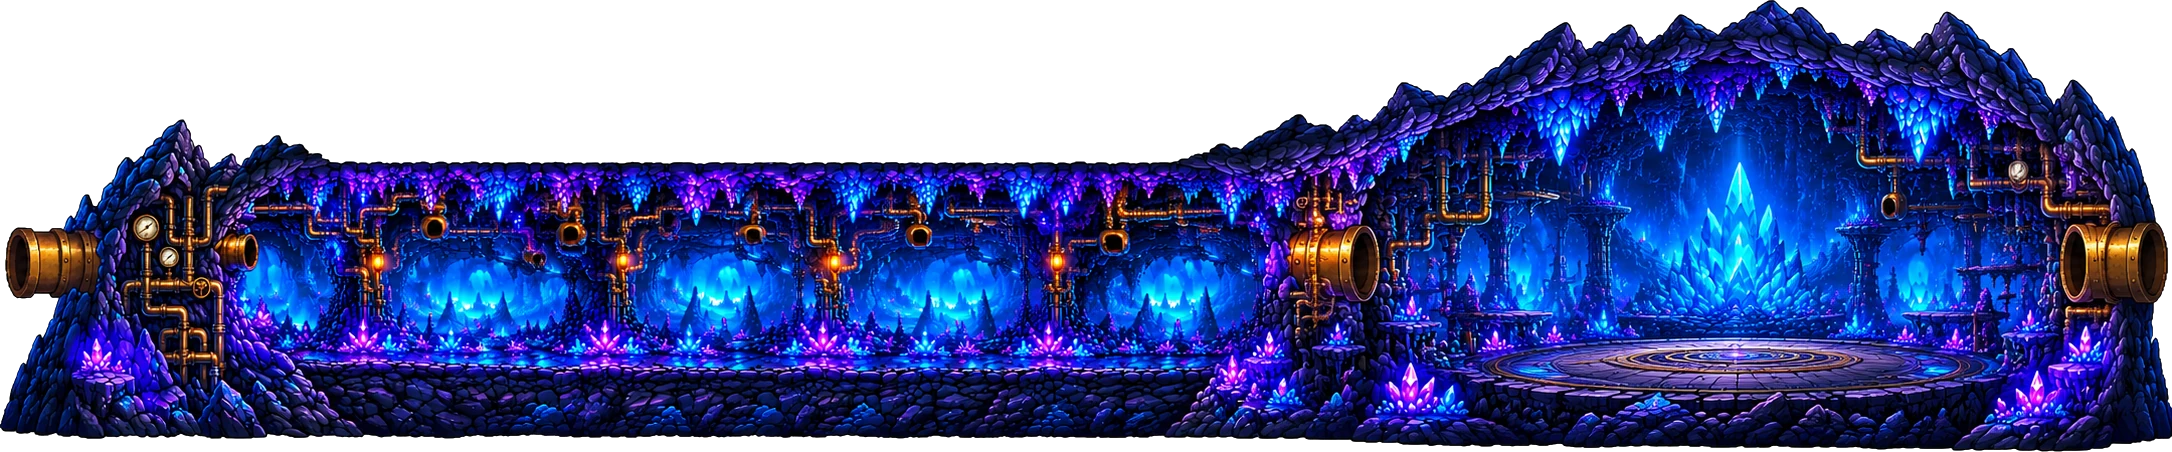
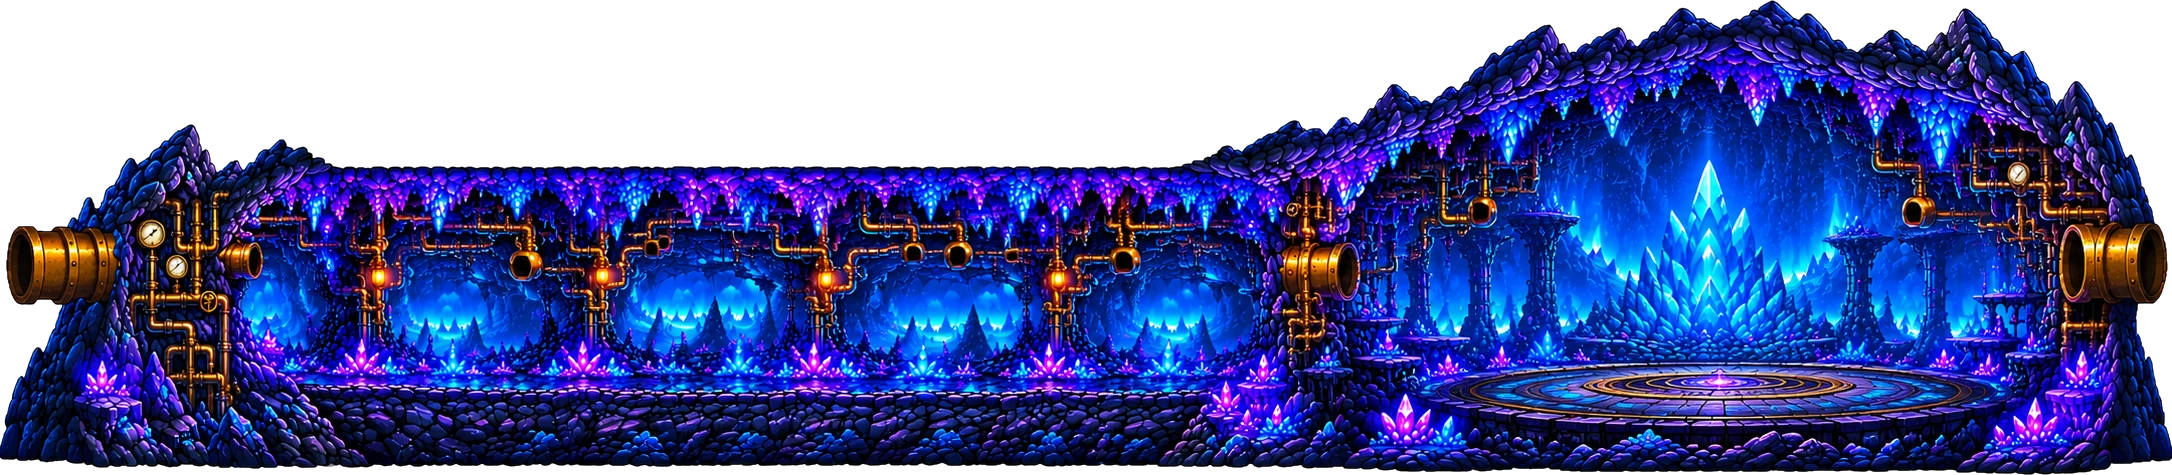
Add files via upload

diff --git a/level3.js b/level3.js
@@ -32,15 +32,15 @@
     is1: [{ fx: 0.50, fy: 0.95, dir: "d", len: 0.16 }]
   };
 
-  // ---------- cave geometry (sprite 2172x452, sprite px) ----------
+  // ---------- cave geometry (sprite 2172x475, sprite px) ----------
   // Left: entry pipe -> long tunnel (row TUN_TOP is the tunnel ceiling = top of the screen) -> pipe that opens into the boss ARENA on the right.
-  var CAVE_W = 2172, CAVE_H = 452, TUN_TOP = 158, CEIL_T = 166, FLOOR_T = 346, WATER_Y = 338;
-  var WALL_L = 262, TUN_END = 1262;                 // tunnel interior x range; rock wings outside it (only the pipe corridors are open)
+  var CAVE_W = 2172, CAVE_H = 475, TUN_TOP = 168, CEIL_T = 176, FLOOR_T = 386, WATER_Y = 378;
+  var WALL_L = 262, TUN_END = 1268;                 // tunnel interior x range; rock wings outside it (only the pipe corridors are open)
   var CORR_HALF = 22, PIPE_HALF = 30;
-  var PIPE_L = [14, 258], PIPE_M = [1152, 1372];    // pipe hide zones (sprite px): open end .. mouth
-  var PIPE_L_CY = 247, PIPE_M_CY = 262;
-  var ARENA_L = 1392, ARENA_R = 1975, ARENA_CX = 1683, ARENA_FLOOR = 350;   // boss arena (open cavern)
-  var ARENA_CEIL = [[1380, 150], [1450, 132], [1500, 112], [1550, 92], [1650, 82], [1750, 78], [1850, 88], [1930, 102], [1990, 122]];
+  var PIPE_L = [14, 258], PIPE_M = [1130, 1350];    // pipe hide zones (sprite px): open end .. mouth
+  var PIPE_L_CY = 265, PIPE_M_CY = 272;
+  var ARENA_L = 1370, ARENA_R = 1985, ARENA_CX = 1678, ARENA_FLOOR = 380, ARENA_WATER = 392;   // boss arena (open cavern)
+  var ARENA_CEIL = [[1360, 170], [1430, 148], [1500, 122], [1550, 104], [1650, 94], [1750, 90], [1850, 100], [1930, 118], [1995, 140]];
   var ARENA_Z = 0.66;                               // camera pull-back once the blimp comes out of the exit pipe
   var CAVE_RECTS = [[WALL_L, -400, TUN_END, CEIL_T], [WALL_L, FLOOR_T, TUN_END, CAVE_H]];   // 0 = ceiling, 1 = floor (tunnel only)
   var CAVE_NODES = [];                              // no electricity in the cave: the crystals only glow and sparkle
@@ -51,14 +51,14 @@
     return 100;
   }
   var CAVE_FX = {
-    crystals: [[265,322,1],[362,330,1],[420,335,0],[600,332,1],[690,337,0],[825,332,1],[900,338,0],[1055,335,1],[1130,338,0],[1230,335,0],
-      [500,185,0],[640,185,1],[770,180,0],[870,185,0],[1000,200,0],[1050,205,0],[1180,180,1],
-      [1410,305,1],[1410,380,1],[1495,340,1],[1910,332,1],[1955,340,1],[1760,250,0],[1740,290,0],[1790,290,0],[1560,120,0],[1720,110,0],[1920,115,0]],
-    lamps: [[377,262,"255,170,80"],[622,262,"255,170,80"],[832,262,"255,170,80"],[1055,262,"255,170,80"],[1760,250,"110,190,255"],[1760,355,"130,170,255"]],
-    steam: [[300,205],[340,195],[470,215],[600,205],[700,215],[820,205],[960,235],[1100,215],[1440,190],[1530,160],[1880,150],[1950,165]],
-    tips: [[300,195],[360,185],[470,175],[500,205],[570,185],[640,200],[700,185],[770,205],[820,195],[870,190],[930,180],[1000,215],[1040,190],[1100,190],[1190,205],
-      [1480,150],[1560,150],[1600,130],[1660,150],[1720,150],[1780,120],[1840,110],[1920,160]],
-    pipes: [[435,226],[567,232],[757,232],[917,235],[1115,240],[1890,205]]   // open pipe ends: water pours from these down to the floor
+    crystals: [[265,350,1],[362,358,1],[440,362,0],[580,358,1],[690,362,0],[810,358,1],[900,365,0],[1050,360,1],[1000,362,0],[1130,362,0],[1230,362,0],
+      [320,212,0],[437,208,0],[515,208,1],[700,210,0],[820,212,1],[950,212,0],[1010,205,0],
+      [1220,395,1],[1140,360,1],[1400,415,1],[1470,355,1],[1950,360,1],[2040,415,1],[1700,260,0],[1675,300,0],[1730,300,0],[1510,130,0],[1750,115,0],[1880,115,0],[1930,125,0]],
+    lamps: [[377,272,"255,170,80"],[601,272,"255,170,80"],[826,272,"255,170,80"],[1058,272,"255,170,80"],[1700,250,"110,190,255"],[1690,390,"130,170,255"]],
+    steam: [[300,235],[345,222],[470,240],[605,228],[700,240],[820,228],[960,250],[1100,235],[1430,205],[1500,180],[1880,175],[1960,190]],
+    tips: [[312,208],[372,198],[482,188],[512,218],[582,198],[652,212],[712,198],[782,218],[832,208],[882,203],[942,192],[1012,228],[1052,203],[1112,203],[1202,218],
+      [1490,162],[1570,162],[1610,142],[1670,162],[1730,162],[1790,132],[1850,122],[1930,172]],
+    pipes: [[525,264],[655,245],[912,252],[958,252],[1110,258],[1480,212],[1915,212]]   // open pipe ends: water pours from these down to the floor
   };
   var caveMaskData = null;
   function caveMask() {      // coarse opaque/transparent map of the cave art (for the rock walls around the pipes)
@@ -532,11 +532,11 @@
   var FOG = null;
   function fogInit() {
     FOG = []; var i = 0, x;
-    for (x = 300; x < 1220; x += 62, i++) FOG.push({ bx: x, by: 205 + ((i * 53) % 95), w: 220 + ((i * 37) % 120), h: 56 + ((i * 29) % 50), sp: 0.12 + (i % 5) * 0.05, ph: i * 1.7, am: 26 + (i % 4) * 12, a: 0.10 + (i % 3) * 0.03 });
-    for (x = 1420; x < 1960; x += 70, i++) FOG.push({ bx: x, by: 190 + ((i * 41) % 110), w: 260 + ((i * 31) % 120), h: 70 + ((i * 23) % 50), sp: 0.10 + (i % 4) * 0.04, ph: i * 1.3, am: 30, a: 0.09 + (i % 3) * 0.02 });
-    for (var j = 0; j < 8; j++) FOG.push({ bx: 300 + j * 120, by: 318, w: 300, h: 32, sp: 0.09 + (j % 3) * 0.04, ph: j * 2.3, am: 40, a: 0.09 });   // low ground mist in the tunnel
+    for (x = 300; x < 1220; x += 62, i++) FOG.push({ bx: x, by: 225 + ((i * 53) % 100), w: 220 + ((i * 37) % 120), h: 56 + ((i * 29) % 50), sp: 0.12 + (i % 5) * 0.05, ph: i * 1.7, am: 26 + (i % 4) * 12, a: 0.10 + (i % 3) * 0.03 });
+    for (x = 1420; x < 1960; x += 70, i++) FOG.push({ bx: x, by: 210 + ((i * 41) % 110), w: 260 + ((i * 31) % 120), h: 70 + ((i * 23) % 50), sp: 0.10 + (i % 4) * 0.04, ph: i * 1.3, am: 30, a: 0.09 + (i % 3) * 0.02 });
+    for (var j = 0; j < 8; j++) FOG.push({ bx: 300 + j * 120, by: 358, w: 300, h: 32, sp: 0.09 + (j % 3) * 0.04, ph: j * 2.3, am: 40, a: 0.09 });   // low ground mist in the tunnel
   }
-  var POOLS = [[330, 46], [520, 40], [700, 38], [880, 46], [1010, 34], [1180, 44], [435, 58], [567, 58], [757, 58], [917, 58], [1115, 58], [1890, 50, 350]];
+  var POOLS = [[330, 46], [520, 40], [700, 38], [880, 46], [1010, 34], [1180, 44], [525, 58], [655, 58], [912, 58], [958, 58], [1110, 58], [1480, 50, 392], [1915, 50, 392]];
   function drawFog(c, now) {
     if (!FOG) fogInit();
     var s = c.s, x0 = Math.max(0, c.x + WALL_L * s), x1 = Math.min(W, c.x + ARENA_R * s); if (x1 <= x0) return;
@@ -569,7 +569,7 @@
     ctx.save(); ctx.lineCap = "round";
     for (i = 0; i < F.pipes.length; i++) {
       p = F.pipes[i]; var X = c.x + p[0] * s; if (X < -20 || X > W + 20) continue;
-      var y0 = c.top + p[1] * s, y1 = c.top + (p[0] > ARENA_L ? 350 : WATER_Y) * s, wob = Math.sin(now * 3 + i) * 0.8 * s, flow = 0.85 + 0.15 * Math.sin(now * 2.1 + i * 1.3);
+      var y0 = c.top + p[1] * s, y1 = c.top + (p[0] > ARENA_L ? ARENA_WATER : WATER_Y) * s, wob = Math.sin(now * 3 + i) * 0.8 * s, flow = 0.85 + 0.15 * Math.sin(now * 2.1 + i * 1.3);
       var lg = ctx.createLinearGradient(0, y0, 0, y1); lg.addColorStop(0, "rgba(170,220,255,0.42)"); lg.addColorStop(1, "rgba(110,180,245,0.22)");
       ctx.globalAlpha = flow; ctx.strokeStyle = lg; ctx.lineWidth = 3.2 * s; ctx.beginPath(); ctx.moveTo(X, y0); ctx.lineTo(X + wob, y1); ctx.stroke();
       ctx.setLineDash([5 * s, 13 * s, 9 * s, 8 * s]); ctx.lineDashOffset = -now * 150 * s - i * 13; ctx.globalAlpha = 0.5 * flow; ctx.strokeStyle = "rgba(225,244,255,0.9)"; ctx.lineWidth = 1.3 * s;
@@ -588,7 +588,7 @@
     ctx.drawImage(im, c.x, c.top, c.w, c.h);
     var now = clockT, dt = fx.last ? Math.min(0.05, Math.max(0, now - fx.last)) : 0.016;
     var ps = img("level3_pipe_r");                      // entry mouth of the pipe that leads into the arena (the art only has its exit end)
-    if (ps && ps.naturalWidth) { var k2 = 0.95, w2 = ps.naturalWidth * k2 * c.s, h2 = ps.naturalHeight * k2 * c.s; ctx.drawImage(ps, c.x + (PIPE_M[0] + 116) * c.s - w2, c.top + PIPE_M_CY * c.s - h2 / 2, w2, h2); }
+    if (ps && ps.naturalWidth) { var k2 = 1.12, w2 = ps.naturalWidth * k2 * c.s, h2 = ps.naturalHeight * k2 * c.s; ctx.drawImage(ps, c.x + 1272 * c.s - w2, c.top + PIPE_M_CY * c.s - h2 / 2, w2, h2); }
     drawFog(c, now);
     drawWater(c, now, dt);
     caveFx(c);
